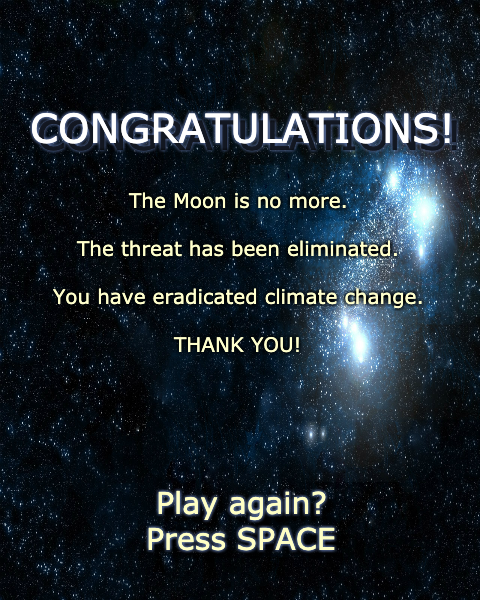
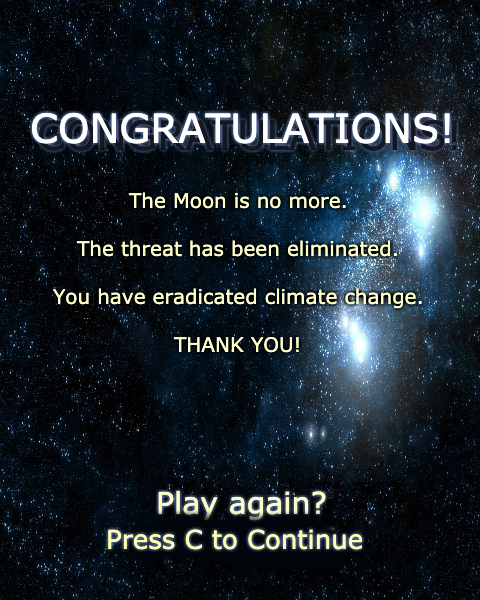
changed congratulations screen

Changed region(s): [[0.2188, 0.84, 0.7812, 0.93]]

diff --git a/MoonSet.py b/MoonSet.py
@@ -77,7 +77,7 @@ def progress_bar(surf, x, y, pct):
     pygame.draw.rect(surf, BLUE, fill_rect)
     pygame.draw.rect(surf, YELLOW, outline_rect, 4)
 
-# Intro Screen
+# Menu Screen
 
 
 def show_menu_screen():
@@ -94,7 +94,7 @@ def show_menu_screen():
             if event.type == pygame.KEYDOWN:
                 waiting = False
 
-# Game Completion/Win Screen
+# Win Screen
 
 
 def show_congratulations_screen():
@@ -107,11 +107,11 @@ def show_congratulations_screen():
             if event.type == pygame.QUIT:
                 pygame.quit()
             if event.type == pygame.KEYDOWN:
-                # Space bar to start the game
-                if event.key == pygame.K_SPACE:
+                # Press C to start the game
+                if event.key == pygame.K_c:
                     waiting = False
 
-# Loss Screen
+# Lose Screen
 
 
 def show_gameover_screen():
@@ -414,7 +414,7 @@ intro_background = pygame.image.load(
     path.join(img_dir, 'Intro.png')).convert()
 intro_background_rect = intro_background.get_rect()
 congratulations_image = pygame.image.load(
-    path.join(img_dir, "congratulations2.png"))
+    path.join(img_dir, "congratulations.png"))
 congratulations_image_rect = congratulations_image.get_rect()
 game_over_image = pygame.image.load(path.join(img_dir, "game_over.png"))
 game_over_image_rect = game_over_image.get_rect()
@@ -492,11 +492,25 @@ while running:
     # Process input (events)
     if menu:
         show_menu_screen()
+        all_sprites = pygame.sprite.Group()
+        mob = pygame.sprite.Group()
+        bullets = pygame.sprite.Group()
+        enemy_bullets = pygame.sprite.Group()
+        player = PlayerShip()
+        player2 = Player2Ship()
+        all_sprites.add(player)
+        all_sprites.add(player2)
+        for i in range(4):
+            newmob()
         menu = False
+        congratulations = False
 
     if game_over:
         show_gameover_screen()
         game_over = False
+        rita.shield = 100
+        progress = 0
+        score = 0
         # When we come back from game over screen, we need to reload all the game objects
         all_sprites = pygame.sprite.Group()
         mob = pygame.sprite.Group()
@@ -512,6 +526,10 @@ while running:
     if congratulations:
         show_congratulations_screen()
         congratulations = False
+        menu = True
+        rita.shield = 100
+        progress = 0
+        score = 0
         all_sprites = pygame.sprite.Group()
         mob = pygame.sprite.Group()
         bullets = pygame.sprite.Group()
@@ -536,8 +554,7 @@ while running:
         elif event.type == pygame.KEYDOWN:
             if event.key == pygame.K_SPACE:
                 if player.shield > 0:
-                    player.shoot()  # TODO Add a Function alive() so that we check for player being alive
-        if event.type == pygame.KEYDOWN:
+                    player.shoot()
             if event.key == pygame.K_LSHIFT:
                 if player2.shield > 0:
                     player2.shoot()
